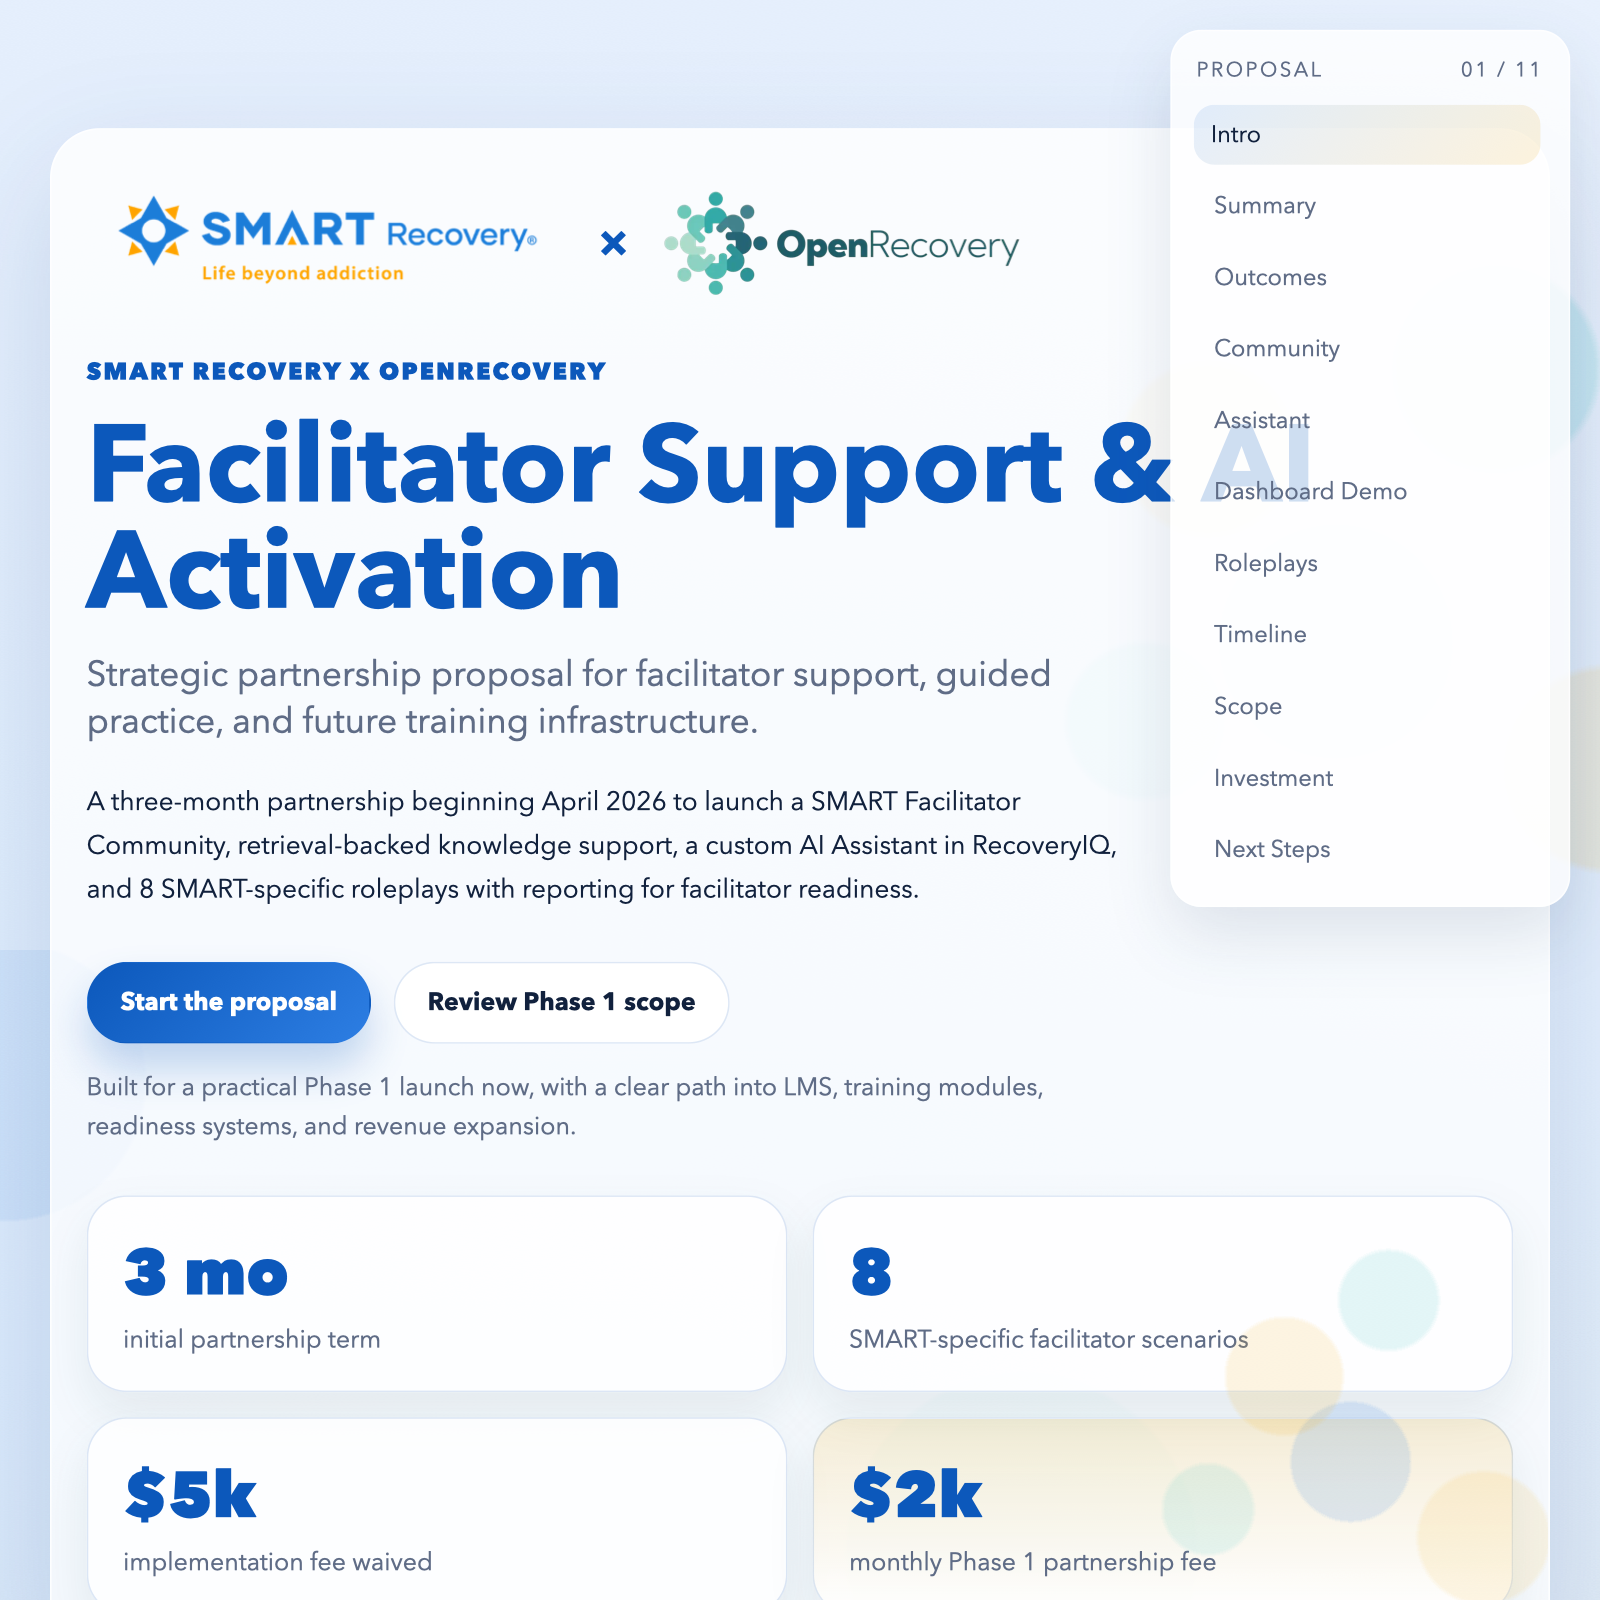
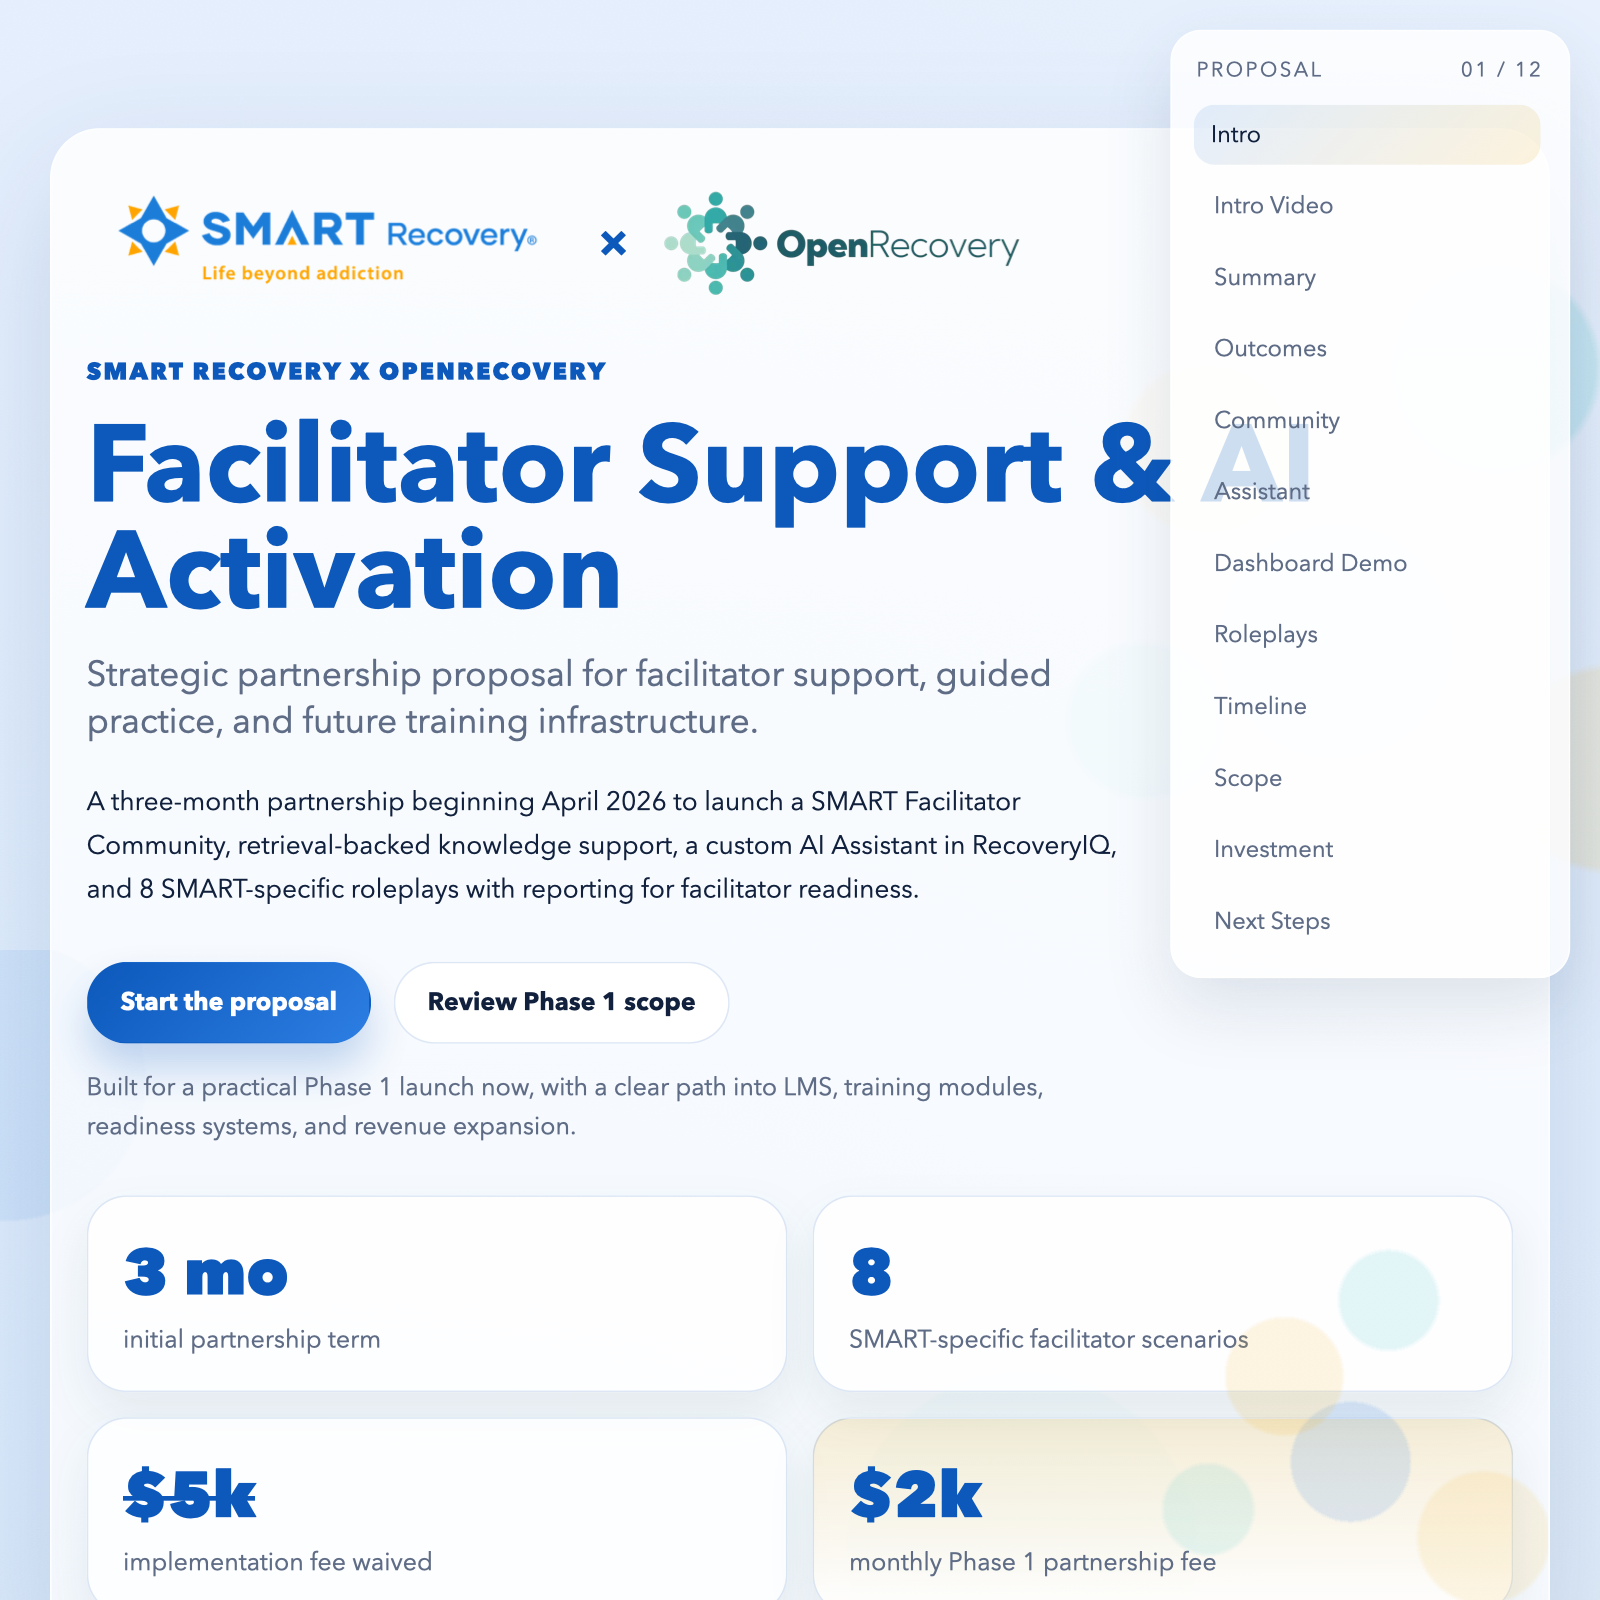
updated files - added video

diff --git a/index.html b/index.html
@@ -15,10 +15,11 @@
         <p class="deck-nav__count">
           <span data-current-section>01</span>
           <span>/</span>
-          <span data-total-sections>11</span>
+          <span data-total-sections>12</span>
         </p>
       </div>
       <a class="deck-nav__link is-active" href="#intro">Intro</a>
+      <a class="deck-nav__link" href="#intro-video">Intro Video</a>
       <a class="deck-nav__link" href="#summary">Summary</a>
       <a class="deck-nav__link" href="#outcomes">Outcomes</a>
       <a class="deck-nav__link" href="#community">Community</a>
@@ -90,6 +91,80 @@
               <p class="metric-card__value">$2k</p>
               <p class="metric-card__label">monthly Phase 1 partnership fee</p>
             </article>
+          </div>
+        </div>
+      </section>
+
+      <section class="presentation-section" id="intro-video" data-section>
+        <div class="section-shell section-shell--split">
+          <div class="section-copy">
+            <p class="eyebrow">Shared Mission</p>
+            <h2>Why SMART Recovery and OpenRecovery fit so naturally together</h2>
+            <p class="section-intro">
+              This introduction video frames the partnership around a simple
+              idea: SMART makes emerging science practical and autonomy-centered,
+              and OpenRecovery applies the same philosophy to emerging technology.
+            </p>
+
+            <div class="detail-stack">
+              <article class="detail-card">
+                <p class="detail-card__label">Core Message</p>
+                <p>
+                  SMART Recovery turns evidence-based practices into something
+                  accessible, actionable, and respectful. OpenRecovery is
+                  pursuing the same goal with AI and digital tools, using lived
+                  recovery experience and technical expertise to strengthen human
+                  support instead of replacing it.
+                </p>
+              </article>
+
+              <article class="detail-card">
+                <p class="detail-card__label">What The Video Highlights</p>
+                <ul class="feature-list">
+                  <li>AI tools designed to support autonomy, action, and human connection</li>
+                  <li>Help for facilitators, families, and people in recovery at the moment they need it</li>
+                  <li>Practice tools like AI roleplay to shrink the readiness gap</li>
+                  <li>Free or low-cost support tools for the often underpaid people doing recovery work</li>
+                </ul>
+              </article>
+
+              <article class="detail-card">
+                <p class="detail-card__label">Invitation</p>
+                <p>
+                  The close of the video invites participants to try the tools,
+                  shape them, and co-create at the workshop on Thursday,
+                  April 9, 2026 at 5:00 PM.
+                </p>
+              </article>
+            </div>
+          </div>
+
+          <div class="media-card">
+            <div class="media-card__frame">
+              <iframe
+                src="https://drive.google.com/file/d/1Rj2uzrdn6lF7KlcWc_Jsuxju732znsFu/preview"
+                title="SMART Recovery and OpenRecovery introduction video"
+                allow="autoplay"
+                allowfullscreen
+                loading="lazy"
+              ></iframe>
+            </div>
+            <div class="media-card__meta">
+              <div>
+                <p class="media-card__title">SMART x OpenRecovery introduction</p>
+                <p class="media-card__caption">
+                  Partnership overview video focused on mission, accessibility,
+                  autonomy, and facilitator support.
+                </p>
+              </div>
+              <a
+                class="text-link"
+                href="https://drive.google.com/file/d/1Rj2uzrdn6lF7KlcWc_Jsuxju732znsFu/view?usp=drive_link"
+                target="_blank"
+                rel="noreferrer"
+                >Open in Drive</a
+              >
+            </div>
           </div>
         </div>
       </section>
